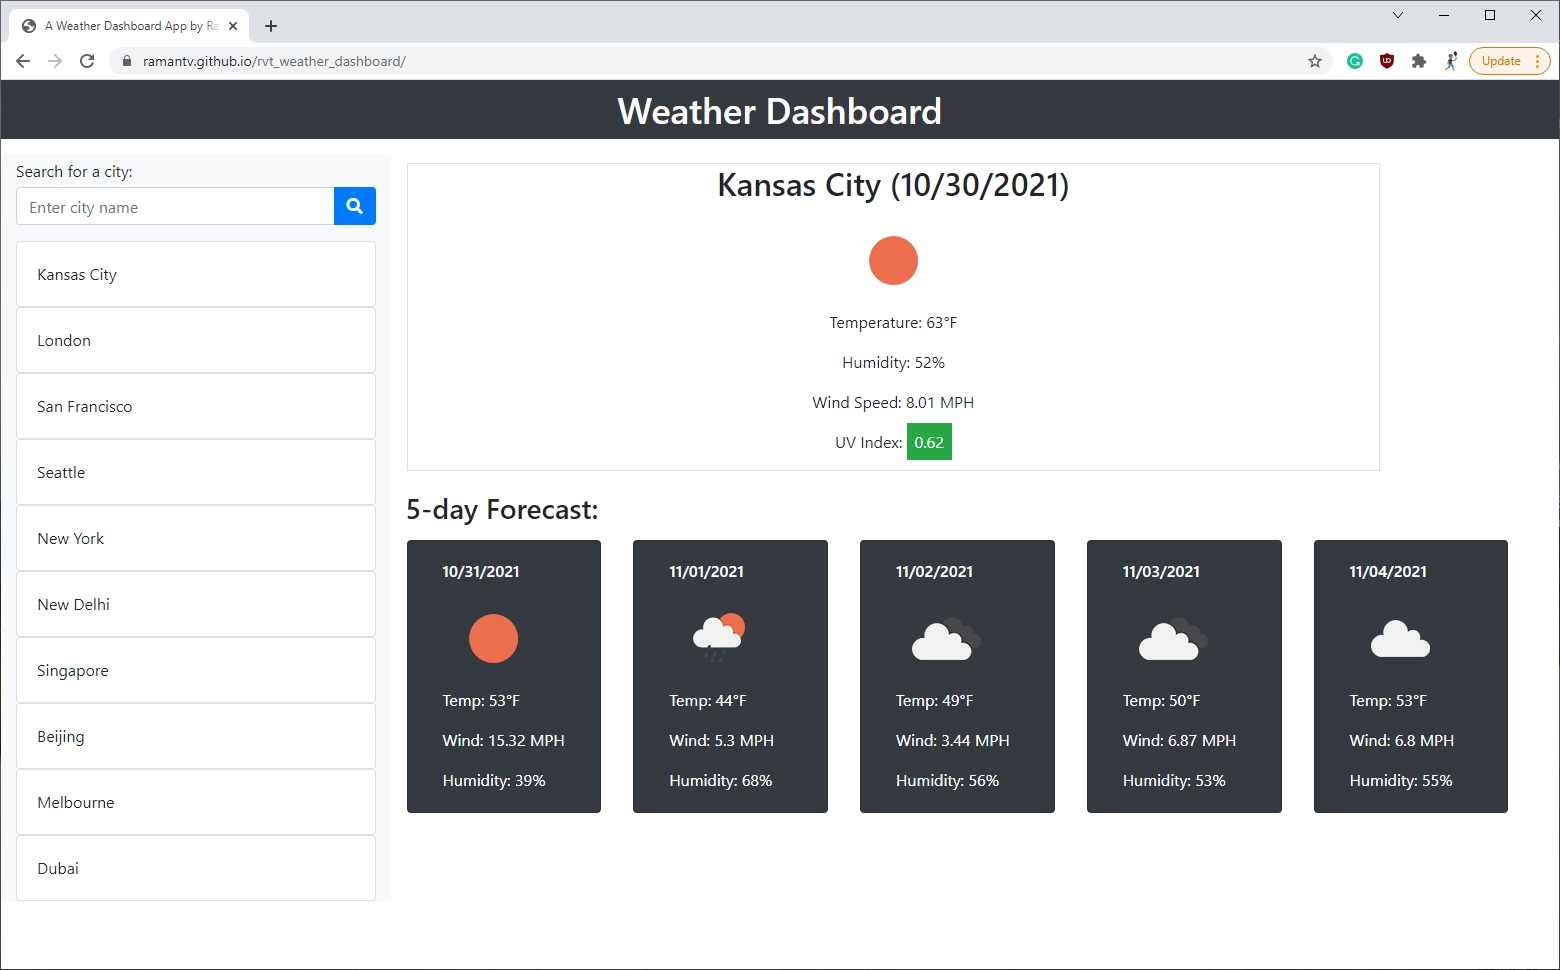
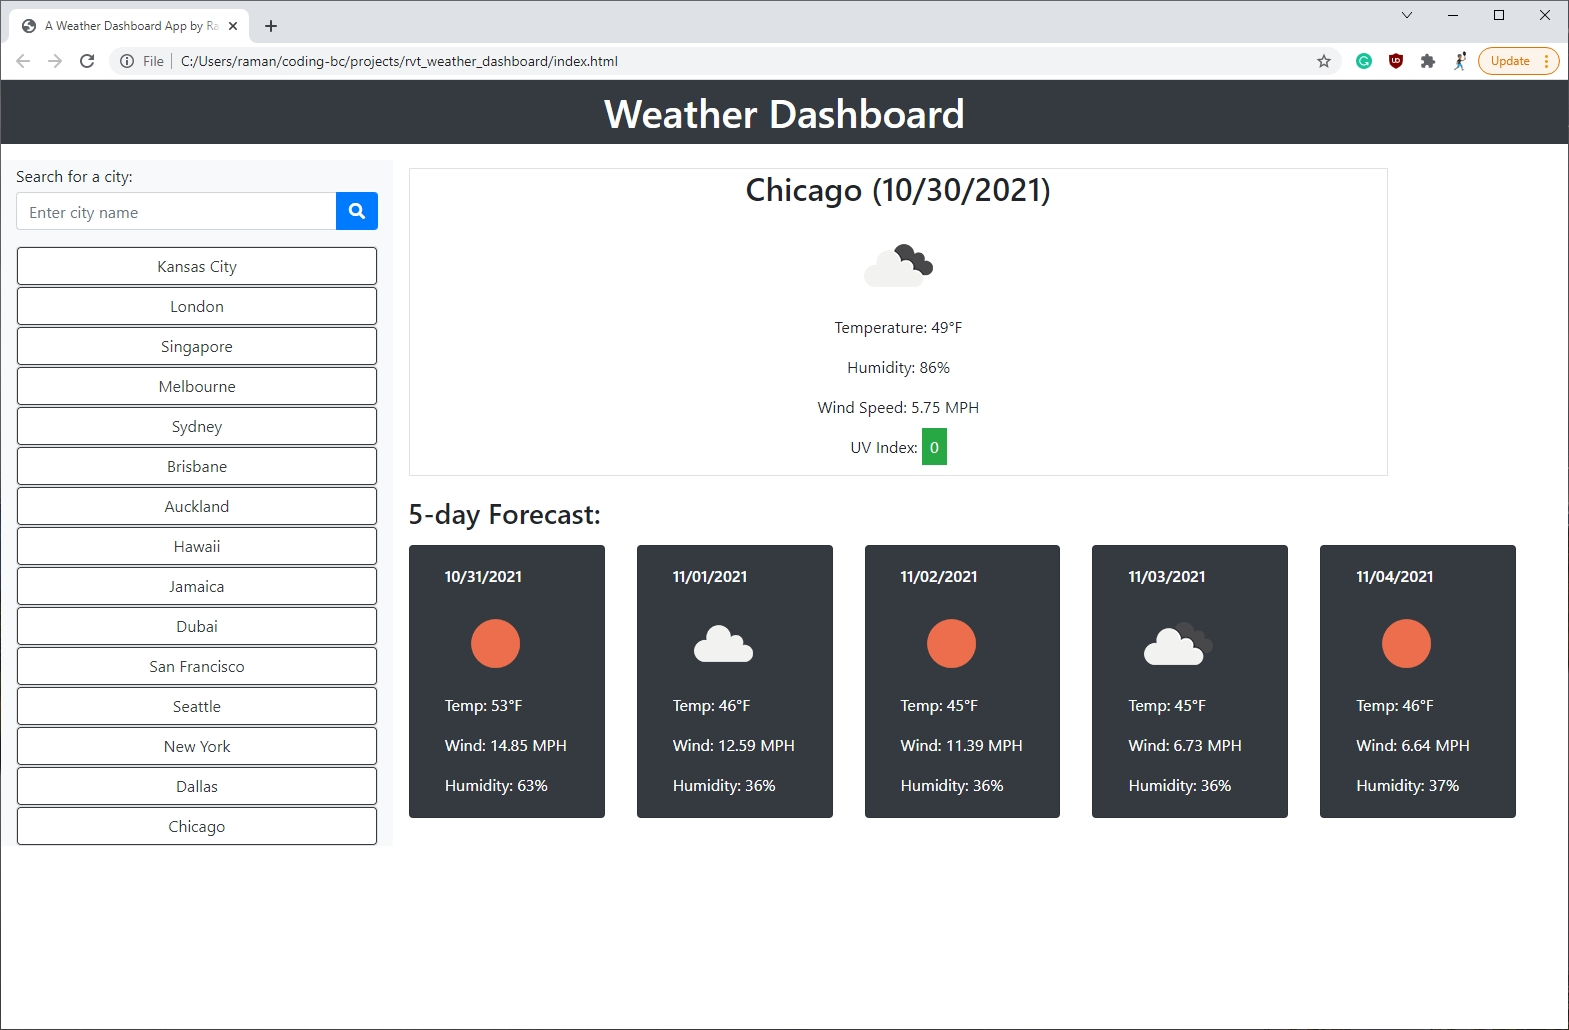
Updated styling. updated screenshot

Changed region(s): [[0.0, 0.0, 1.0, 0.8351]]

diff --git a/assets/js/script.js b/assets/js/script.js
@@ -132,8 +132,8 @@ function saveCitiesToLocalStorage(cities) {
 var displaySearchedCities = function (city) {
   var cityCardEl = document.createElement("div");
   cityCardEl.setAttribute("class", "card");
-  var cityCardNameEl = document.createElement("div");
-  cityCardNameEl.setAttribute("class", "card-body searched-city");
+  var cityCardNameEl = document.createElement("button");
+  cityCardNameEl.setAttribute("class", "btn btn-outline-dark");
   cityCardNameEl.textContent = city;
 
   cityCardEl.appendChild(cityCardNameEl);
